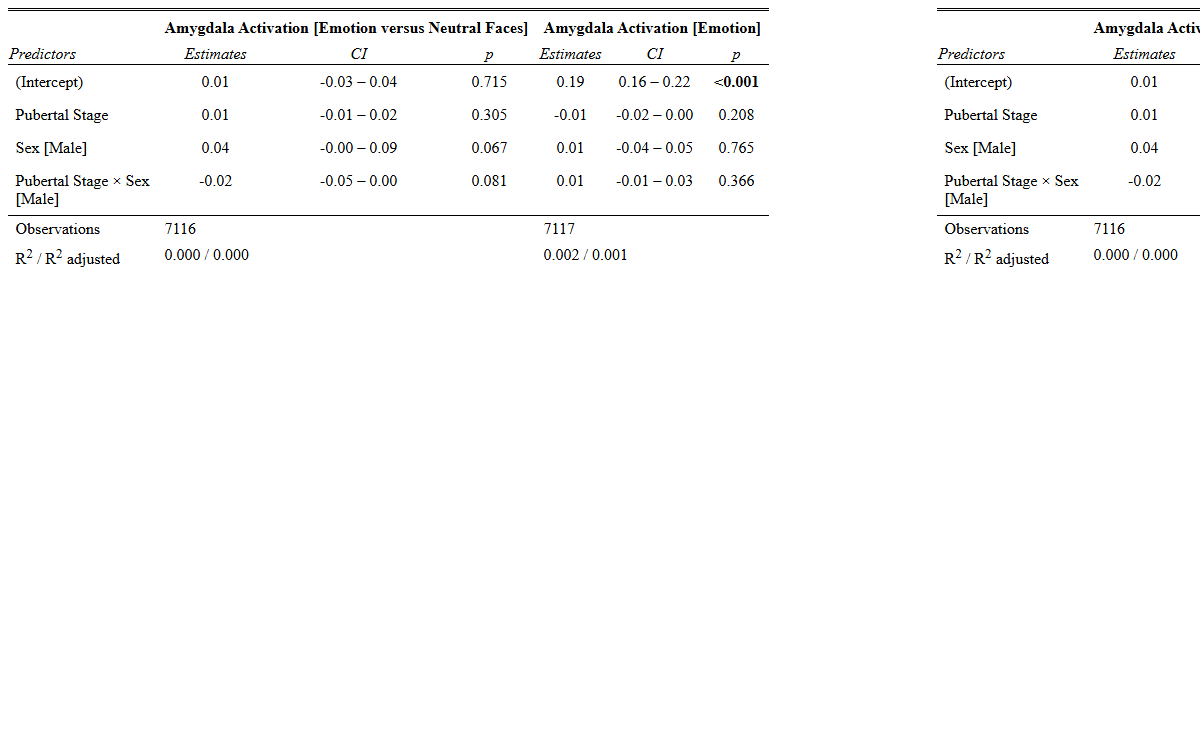
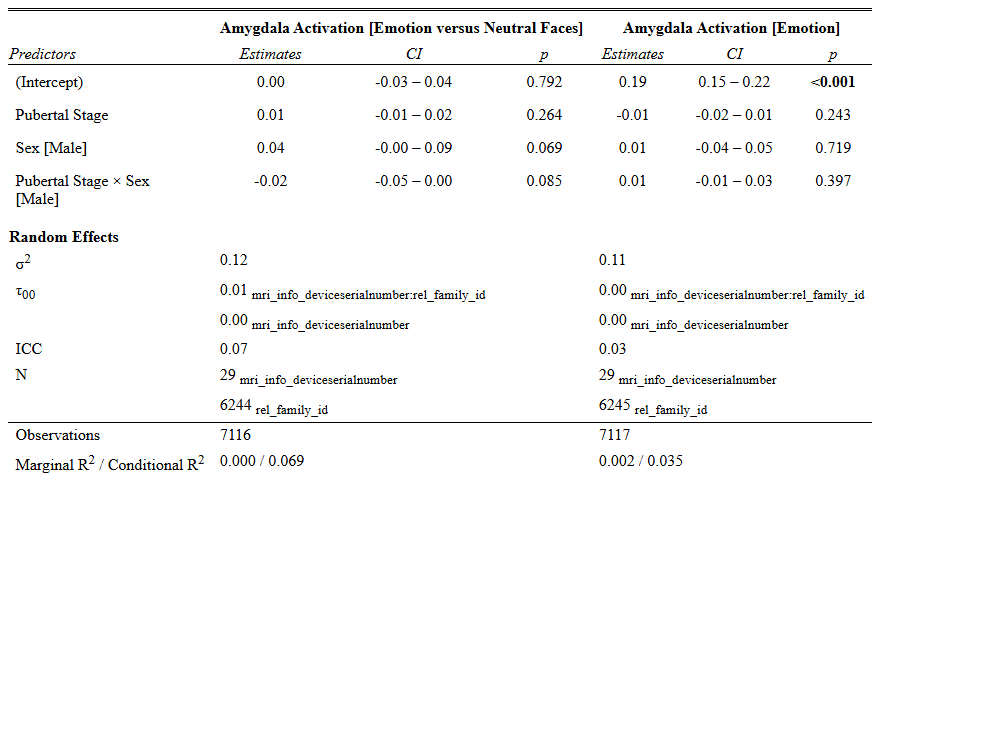
update

diff --git a/analysis/table/ENback_pds.html b/analysis/table/ENback_pds.html
@@ -1,63 +1,87 @@
 <table style="border-collapse:collapse; border:none;">
 <tr>
 <th style="border-top: double; text-align:center; font-style:normal; font-weight:bold; padding:0.2cm;  text-align:left; ">&nbsp;</th>
-<th colspan="3" style="border-top: double; text-align:center; font-style:normal; font-weight:bold; padding:0.2cm; ">Amygdala Activation [Emotion versus Neutral Faces]</th>
-<th colspan="3" style="border-top: double; text-align:center; font-style:normal; font-weight:bold; padding:0.2cm; ">Amygdala Activation [Emotion]</th>
+<th colspan="2" style="border-top: double; text-align:center; font-style:normal; font-weight:bold; padding:0.2cm; ">Amygdala Activation [Emotion versus Neutral Faces]</th>
+<th colspan="2" style="border-top: double; text-align:center; font-style:normal; font-weight:bold; padding:0.2cm; ">Amygdala Activation [Emotion]</th>
 </tr>
 <tr>
 <td style=" text-align:center; border-bottom:1px solid; font-style:italic; font-weight:normal;  text-align:left; ">Predictors</td>
 <td style=" text-align:center; border-bottom:1px solid; font-style:italic; font-weight:normal;  ">Estimates</td>
-<td style=" text-align:center; border-bottom:1px solid; font-style:italic; font-weight:normal;  ">CI</td>
 <td style=" text-align:center; border-bottom:1px solid; font-style:italic; font-weight:normal;  ">p</td>
 <td style=" text-align:center; border-bottom:1px solid; font-style:italic; font-weight:normal;  ">Estimates</td>
-<td style=" text-align:center; border-bottom:1px solid; font-style:italic; font-weight:normal;  ">CI</td>
-<td style=" text-align:center; border-bottom:1px solid; font-style:italic; font-weight:normal;  col7">p</td>
+<td style=" text-align:center; border-bottom:1px solid; font-style:italic; font-weight:normal;  ">p</td>
 </tr>
 <tr>
 <td style=" padding:0.2cm; text-align:left; vertical-align:top; text-align:left; ">(Intercept)</td>
-<td style=" padding:0.2cm; text-align:left; vertical-align:top; text-align:center;  ">0.01</td>
-<td style=" padding:0.2cm; text-align:left; vertical-align:top; text-align:center;  ">&#45;0.03&nbsp;&ndash;&nbsp;0.04</td>
-<td style=" padding:0.2cm; text-align:left; vertical-align:top; text-align:center;  ">0.715</td>
+<td style=" padding:0.2cm; text-align:left; vertical-align:top; text-align:center;  ">0.00</td>
+<td style=" padding:0.2cm; text-align:left; vertical-align:top; text-align:center;  ">0.792</td>
 <td style=" padding:0.2cm; text-align:left; vertical-align:top; text-align:center;  ">0.19</td>
-<td style=" padding:0.2cm; text-align:left; vertical-align:top; text-align:center;  ">0.16&nbsp;&ndash;&nbsp;0.22</td>
-<td style=" padding:0.2cm; text-align:left; vertical-align:top; text-align:center;  col7"><strong>&lt;0.001</strong></td>
+<td style=" padding:0.2cm; text-align:left; vertical-align:top; text-align:center;  "><strong>&lt;0.001</strong></td>
 </tr>
 <tr>
 <td style=" padding:0.2cm; text-align:left; vertical-align:top; text-align:left; ">Pubertal Stage</td>
 <td style=" padding:0.2cm; text-align:left; vertical-align:top; text-align:center;  ">0.01</td>
-<td style=" padding:0.2cm; text-align:left; vertical-align:top; text-align:center;  ">&#45;0.01&nbsp;&ndash;&nbsp;0.02</td>
-<td style=" padding:0.2cm; text-align:left; vertical-align:top; text-align:center;  ">0.305</td>
+<td style=" padding:0.2cm; text-align:left; vertical-align:top; text-align:center;  ">0.264</td>
 <td style=" padding:0.2cm; text-align:left; vertical-align:top; text-align:center;  ">&#45;0.01</td>
-<td style=" padding:0.2cm; text-align:left; vertical-align:top; text-align:center;  ">&#45;0.02&nbsp;&ndash;&nbsp;0.00</td>
-<td style=" padding:0.2cm; text-align:left; vertical-align:top; text-align:center;  col7">0.208</td>
+<td style=" padding:0.2cm; text-align:left; vertical-align:top; text-align:center;  ">0.243</td>
 </tr>
 <tr>
 <td style=" padding:0.2cm; text-align:left; vertical-align:top; text-align:left; ">Sex [Male]</td>
 <td style=" padding:0.2cm; text-align:left; vertical-align:top; text-align:center;  ">0.04</td>
-<td style=" padding:0.2cm; text-align:left; vertical-align:top; text-align:center;  ">&#45;0.00&nbsp;&ndash;&nbsp;0.09</td>
-<td style=" padding:0.2cm; text-align:left; vertical-align:top; text-align:center;  ">0.067</td>
+<td style=" padding:0.2cm; text-align:left; vertical-align:top; text-align:center;  ">0.069</td>
 <td style=" padding:0.2cm; text-align:left; vertical-align:top; text-align:center;  ">0.01</td>
-<td style=" padding:0.2cm; text-align:left; vertical-align:top; text-align:center;  ">&#45;0.04&nbsp;&ndash;&nbsp;0.05</td>
-<td style=" padding:0.2cm; text-align:left; vertical-align:top; text-align:center;  col7">0.765</td>
+<td style=" padding:0.2cm; text-align:left; vertical-align:top; text-align:center;  ">0.719</td>
 </tr>
 <tr>
 <td style=" padding:0.2cm; text-align:left; vertical-align:top; text-align:left; ">Pubertal Stage × Sex<br>[Male]</td>
 <td style=" padding:0.2cm; text-align:left; vertical-align:top; text-align:center;  ">&#45;0.02</td>
-<td style=" padding:0.2cm; text-align:left; vertical-align:top; text-align:center;  ">&#45;0.05&nbsp;&ndash;&nbsp;0.00</td>
-<td style=" padding:0.2cm; text-align:left; vertical-align:top; text-align:center;  ">0.081</td>
+<td style=" padding:0.2cm; text-align:left; vertical-align:top; text-align:center;  ">0.085</td>
 <td style=" padding:0.2cm; text-align:left; vertical-align:top; text-align:center;  ">0.01</td>
-<td style=" padding:0.2cm; text-align:left; vertical-align:top; text-align:center;  ">&#45;0.01&nbsp;&ndash;&nbsp;0.03</td>
-<td style=" padding:0.2cm; text-align:left; vertical-align:top; text-align:center;  col7">0.366</td>
+<td style=" padding:0.2cm; text-align:left; vertical-align:top; text-align:center;  ">0.397</td>
 </tr>
+<tr>
+<td colspan="5" style="font-weight:bold; text-align:left; padding-top:.8em;">Random Effects</td>
+</tr>
+
+<tr>
+<td style=" padding:0.2cm; text-align:left; vertical-align:top; text-align:left; padding-top:0.1cm; padding-bottom:0.1cm;">&sigma;<sup>2</sup></td>
+<td style=" padding:0.2cm; text-align:left; vertical-align:top; padding-top:0.1cm; padding-bottom:0.1cm; text-align:left;" colspan="2">0.12</td>
+<td style=" padding:0.2cm; text-align:left; vertical-align:top; padding-top:0.1cm; padding-bottom:0.1cm; text-align:left;" colspan="2">0.11</td>
+</tr>
+
+<tr>
+<td style=" padding:0.2cm; text-align:left; vertical-align:top; text-align:left; padding-top:0.1cm; padding-bottom:0.1cm;">&tau;<sub>00</sub></td>
+<td style=" padding:0.2cm; text-align:left; vertical-align:top; padding-top:0.1cm; padding-bottom:0.1cm; text-align:left;" colspan="2">0.01 <sub>mri_info_deviceserialnumber:rel_family_id</sub></td>
+<td style=" padding:0.2cm; text-align:left; vertical-align:top; padding-top:0.1cm; padding-bottom:0.1cm; text-align:left;" colspan="2">0.00 <sub>mri_info_deviceserialnumber:rel_family_id</sub></td>
+
+<tr>
+<td style=" padding:0.2cm; text-align:left; vertical-align:top; text-align:left; padding-top:0.1cm; padding-bottom:0.1cm;"></td>
+<td style=" padding:0.2cm; text-align:left; vertical-align:top; padding-top:0.1cm; padding-bottom:0.1cm; text-align:left;" colspan="2">0.00 <sub>mri_info_deviceserialnumber</sub></td>
+<td style=" padding:0.2cm; text-align:left; vertical-align:top; padding-top:0.1cm; padding-bottom:0.1cm; text-align:left;" colspan="2">0.00 <sub>mri_info_deviceserialnumber</sub></td>
+
+<tr>
+<td style=" padding:0.2cm; text-align:left; vertical-align:top; text-align:left; padding-top:0.1cm; padding-bottom:0.1cm;">ICC</td>
+<td style=" padding:0.2cm; text-align:left; vertical-align:top; padding-top:0.1cm; padding-bottom:0.1cm; text-align:left;" colspan="2">0.07</td>
+<td style=" padding:0.2cm; text-align:left; vertical-align:top; padding-top:0.1cm; padding-bottom:0.1cm; text-align:left;" colspan="2">0.03</td>
+
+<tr>
+<td style=" padding:0.2cm; text-align:left; vertical-align:top; text-align:left; padding-top:0.1cm; padding-bottom:0.1cm;">N</td>
+<td style=" padding:0.2cm; text-align:left; vertical-align:top; padding-top:0.1cm; padding-bottom:0.1cm; text-align:left;" colspan="2">29 <sub>mri_info_deviceserialnumber</sub></td>
+<td style=" padding:0.2cm; text-align:left; vertical-align:top; padding-top:0.1cm; padding-bottom:0.1cm; text-align:left;" colspan="2">29 <sub>mri_info_deviceserialnumber</sub></td>
+
+<tr>
+<td style=" padding:0.2cm; text-align:left; vertical-align:top; text-align:left; padding-top:0.1cm; padding-bottom:0.1cm;"></td>
+<td style=" padding:0.2cm; text-align:left; vertical-align:top; padding-top:0.1cm; padding-bottom:0.1cm; text-align:left;" colspan="2">6244 <sub>rel_family_id</sub></td>
+<td style=" padding:0.2cm; text-align:left; vertical-align:top; padding-top:0.1cm; padding-bottom:0.1cm; text-align:left;" colspan="2">6245 <sub>rel_family_id</sub></td>
 <tr>
 <td style=" padding:0.2cm; text-align:left; vertical-align:top; text-align:left; padding-top:0.1cm; padding-bottom:0.1cm; border-top:1px solid;">Observations</td>
-<td style=" padding:0.2cm; text-align:left; vertical-align:top; padding-top:0.1cm; padding-bottom:0.1cm; text-align:left; border-top:1px solid;" colspan="3">7116</td>
-<td style=" padding:0.2cm; text-align:left; vertical-align:top; padding-top:0.1cm; padding-bottom:0.1cm; text-align:left; border-top:1px solid;" colspan="3">7117</td>
+<td style=" padding:0.2cm; text-align:left; vertical-align:top; padding-top:0.1cm; padding-bottom:0.1cm; text-align:left; border-top:1px solid;" colspan="2">7116</td>
+<td style=" padding:0.2cm; text-align:left; vertical-align:top; padding-top:0.1cm; padding-bottom:0.1cm; text-align:left; border-top:1px solid;" colspan="2">7117</td>
 </tr>
 <tr>
-<td style=" padding:0.2cm; text-align:left; vertical-align:top; text-align:left; padding-top:0.1cm; padding-bottom:0.1cm;">R<sup>2</sup> / R<sup>2</sup> adjusted</td>
-<td style=" padding:0.2cm; text-align:left; vertical-align:top; padding-top:0.1cm; padding-bottom:0.1cm; text-align:left;" colspan="3">0.000 / 0.000</td>
-<td style=" padding:0.2cm; text-align:left; vertical-align:top; padding-top:0.1cm; padding-bottom:0.1cm; text-align:left;" colspan="3">0.002 / 0.001</td>
+<td style=" padding:0.2cm; text-align:left; vertical-align:top; text-align:left; padding-top:0.1cm; padding-bottom:0.1cm;">Marginal R<sup>2</sup> / Conditional R<sup>2</sup></td>
+<td style=" padding:0.2cm; text-align:left; vertical-align:top; padding-top:0.1cm; padding-bottom:0.1cm; text-align:left;" colspan="2">0.000 / 0.069</td>
+<td style=" padding:0.2cm; text-align:left; vertical-align:top; padding-top:0.1cm; padding-bottom:0.1cm; text-align:left;" colspan="2">0.002 / 0.035</td>
 </tr>
 
 </table>
